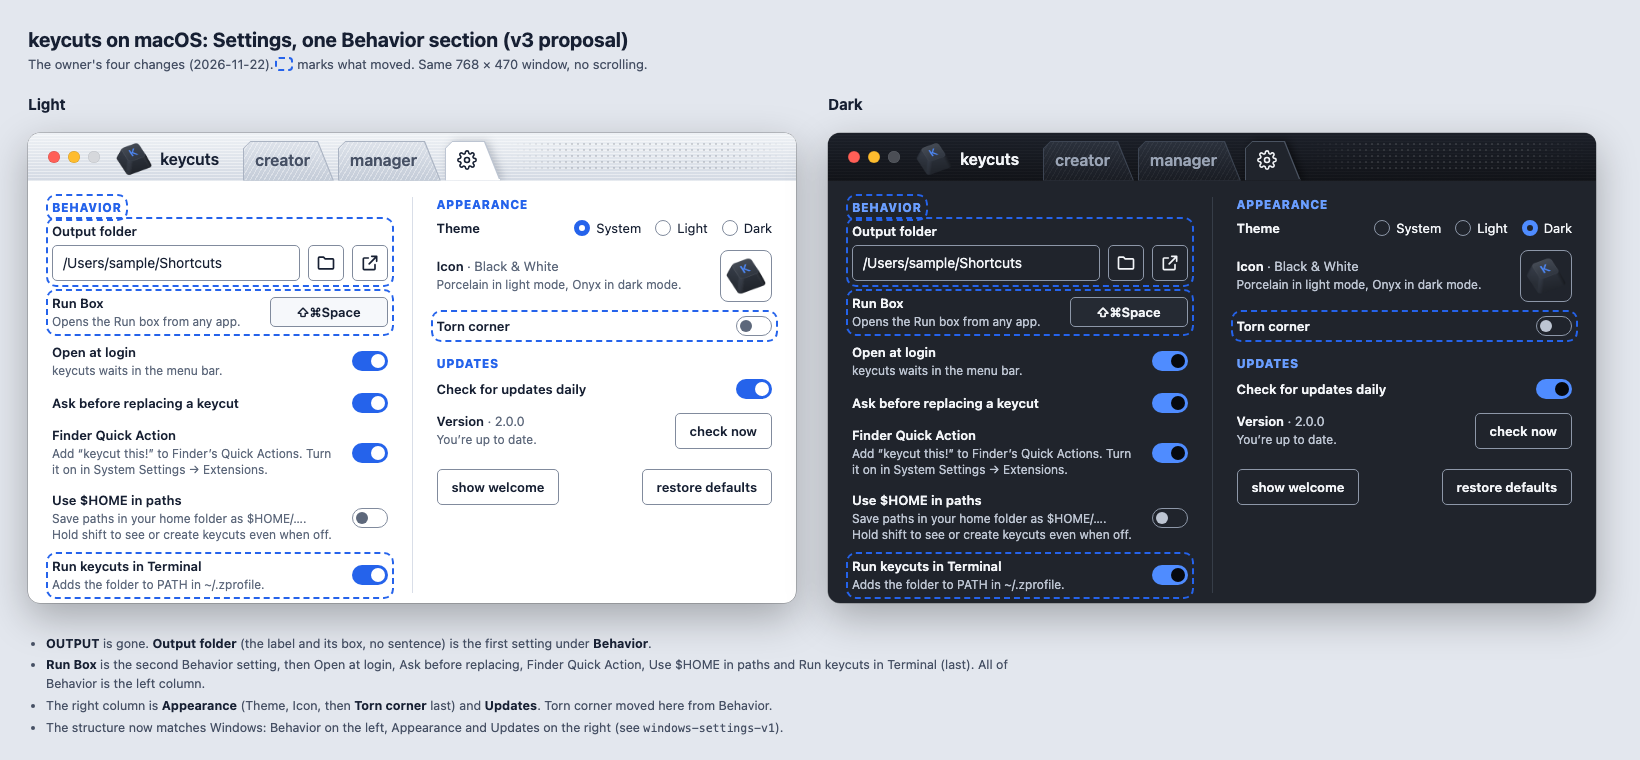
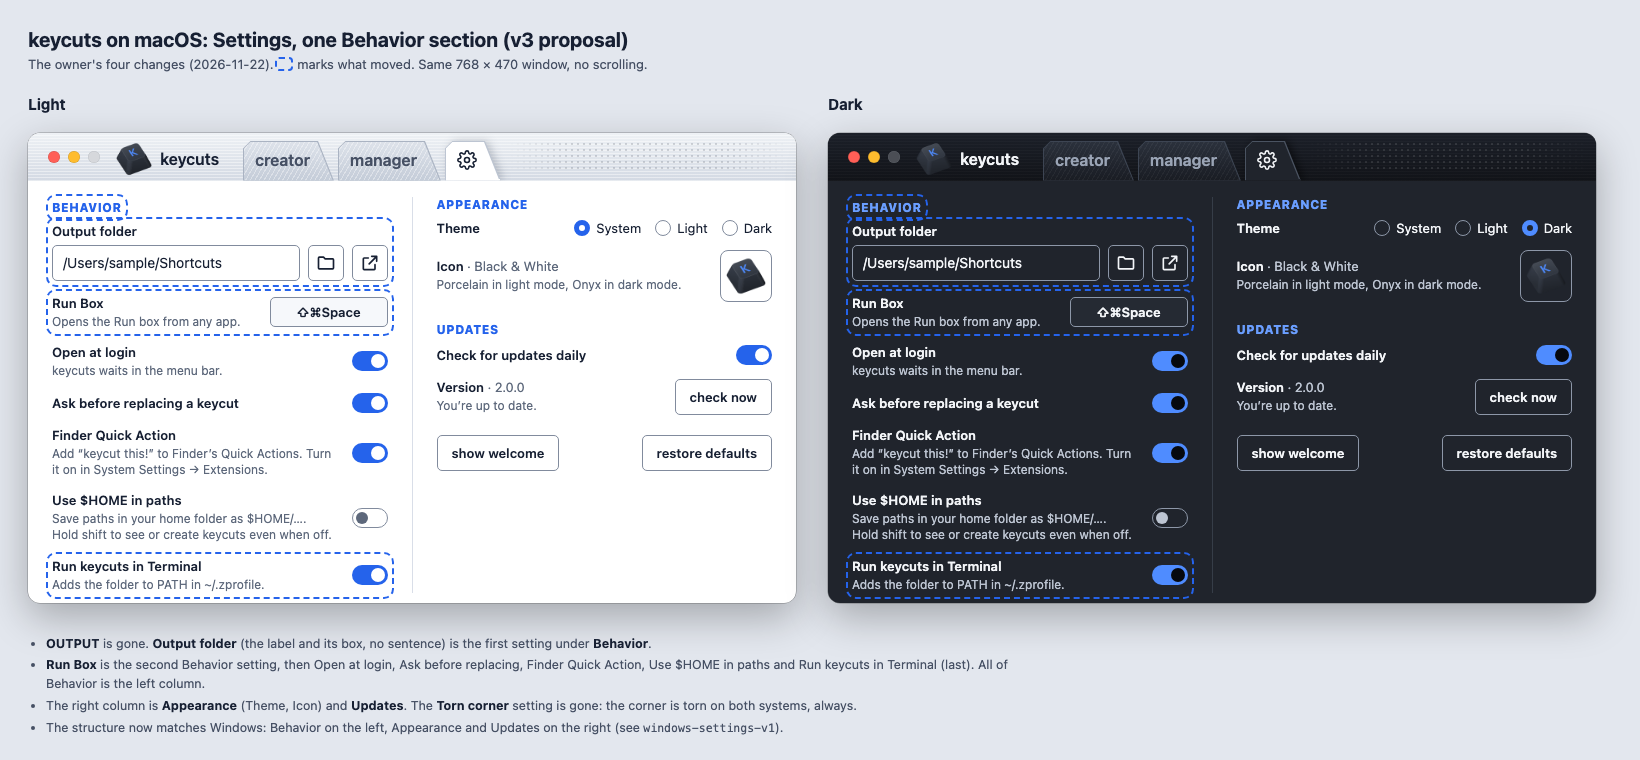
Docs and tools: the torn corner is always on; the torn check is a single fresh-start check
The macOS Settings mockup v3 loses its Torn corner row and the style guide and plan record the decision. check-app.sh torn now only starts the app with a white window behind the corner and requires it to be see-through (no switch to flip any more); it read 0,0,0 without the fix for #308.

diff --git a/docs/mockups/macos-settings-v3.html b/docs/mockups/macos-settings-v3.html
@@ -151,7 +151,6 @@ code{font-family:"SF Mono",Menlo,monospace;font-size:11.5px}
      <div class="sec first">Appearance</div>
      <div class="set"><div class="t">Theme</div><div class="radio"><span><i class="dot on"></i>System</span><span><i class="dot"></i>Light</span><span><i class="dot"></i>Dark</span></div></div>
      <div class="set"><div><div class="t">Icon <span class="v">· Black &amp; White</span></div><div class="n">Porcelain in light mode, Onyx in dark mode.</div></div><div class="iconpick"><img src="../../assets/icons/key-charcoal/key-charcoal-96.png" alt=""></div></div>
-     <div class="set newmark"><div class="t">Torn corner</div><div class="tog off"></div></div>
      <div class="sec">Updates</div>
      <div class="set"><div class="t">Check for updates daily</div><div class="tog"></div></div>
      <div class="set"><div><div class="t">Version <span class="v">· 2.0.0</span></div><div class="n">You’re up to date.</div></div><span class="btn">check now</span></div>
@@ -181,7 +180,6 @@ code{font-family:"SF Mono",Menlo,monospace;font-size:11.5px}
      <div class="sec first">Appearance</div>
      <div class="set"><div class="t">Theme</div><div class="radio"><span><i class="dot"></i>System</span><span><i class="dot"></i>Light</span><span><i class="dot on"></i>Dark</span></div></div>
      <div class="set"><div><div class="t">Icon <span class="v">· Black &amp; White</span></div><div class="n">Porcelain in light mode, Onyx in dark mode.</div></div><div class="iconpick"><img src="../../assets/icons/key-charcoal/key-charcoal-96.png" alt=""></div></div>
-     <div class="set newmark"><div class="t">Torn corner</div><div class="tog off"></div></div>
      <div class="sec">Updates</div>
      <div class="set"><div class="t">Check for updates daily</div><div class="tog"></div></div>
      <div class="set"><div><div class="t">Version <span class="v">· 2.0.0</span></div><div class="n">You’re up to date.</div></div><span class="btn">check now</span></div>
@@ -194,7 +192,7 @@ code{font-family:"SF Mono",Menlo,monospace;font-size:11.5px}
 <div class="row"><div class="col" style="width:1000px"><div class="note"><ul>
  <li><b>OUTPUT</b> is gone. <b>Output folder</b> (the label and its box, no sentence) is the first setting under <b>Behavior</b>.</li>
  <li><b>Run Box</b> is the second Behavior setting, then Open at login, Ask before replacing, Finder Quick Action, Use $HOME in paths and Run keycuts in Terminal (last). All of Behavior is the left column.</li>
- <li>The right column is <b>Appearance</b> (Theme, Icon, then <b>Torn corner</b> last) and <b>Updates</b>. Torn corner moved here from Behavior.</li>
+ <li>The right column is <b>Appearance</b> (Theme, Icon) and <b>Updates</b>. The <b>Torn corner</b> setting is gone: the corner is torn on both systems, always.</li>
  <li>The structure now matches Windows: Behavior on the left, Appearance and Updates on the right (see <code>windows-settings-v1</code>).</li>
 </ul></div></div></div>
 </body></html>

diff --git a/docs/styleguide.md b/docs/styleguide.md
@@ -457,7 +457,8 @@ Answers from the owner. Each settles a discrepancy; the date is when it was made
 | 2026-11-13 | Dialog button order | Cancel, then primary at the far right | **Keep it**: primary last, at the far right. A deliberate difference from Fluent's ContentDialog, which puts the primary button first |
 | 2026-11-22 | The torn corner on macOS | None (the native window) | **Optional, off by default** (Settings → Behavior → Torn corner, issue #292, asked for directly by the owner without a new mockup). On: the window is transparent behind the page, the page is clipped to the same torn shape as Windows (`TornCorner`, the rip is the resize grip), and macOS keeps its own frame, rounded top corners and traffic lights; the page draws no border of its own. Off: the opaque native window, as in `macos-window-v1`. Switches live, no restart. Restore defaults turns it off |
 | 2026-11-22 | Settings on macOS, rearranged | `macos-settings-v1` | **`macos-settings-v2`** (the owner's nine changes). Behavior (left): Open at login first, then Ask before replacing, Finder Quick Action, Use $HOME in paths, Torn corner. The right column starts with the **Run Box** row (was Shortcut under a RUN BOX section label, now without the label), then **Run keycuts in Terminal** (was under Output), then Appearance and Updates. No sentence under the output folder (errors still show there) or under Torn corner. Notes: Open at login "keycuts waits in the menu bar."; Finder Quick Action "Add “keycut this!” to Finder’s Quick Actions. Turn it on in System Settings → Extensions."; Use $HOME "Save paths in your home folder as $HOME/…. Hold shift to see or create keycuts even when off.". macOS only: the Windows page keeps its layout and wording |
-| 2026-11-22 | Settings: one Behavior section, in step on both systems | `macos-settings-v2` | **`macos-settings-v3` and `windows-settings-v1`** (the owner's, to keep the two pages in sync). No OUTPUT heading: Behavior (left) opens with **Output folder** (no sentence under it; an error still shows there). macOS Behavior: Output folder, Run Box, Open at login, Ask before replacing a keycut, Finder Quick Action, Use $HOME in paths, Run keycuts in Terminal. Windows Behavior: Output folder, Ask before replacing a keycut, Right-click context menus, Use environment variables in paths. Right column on both: Appearance (macOS: Theme, Icon, Torn corner; Windows: Theme, Icon, Transparent icon background) and Updates. The notes under the paths setting read "…Hold shift to see or create keycuts even when off." on both. Right-click context menus (Windows) and Finder Quick Action (macOS) are the same setting for each system; Run Box, Open at login, Run keycuts in Terminal and Torn corner are macOS only for now (issues for the Windows ones are open), and Transparent icon background is Windows only for now. The README's Windows Settings pictures need regenerating on Windows |
+| 2026-11-22 | Settings: one Behavior section, in step on both systems | `macos-settings-v2` | **`macos-settings-v3` and `windows-settings-v1`** (the owner's, to keep the two pages in sync). No OUTPUT heading: Behavior (left) opens with **Output folder** (no sentence under it; an error still shows there). macOS Behavior: Output folder, Run Box, Open at login, Ask before replacing a keycut, Finder Quick Action, Use $HOME in paths, Run keycuts in Terminal. Windows Behavior: Output folder, Ask before replacing a keycut, Right-click context menus, Use environment variables in paths. Right column on both: Appearance (macOS: Theme, Icon; Windows: Theme, Icon, Transparent icon background) and Updates. The notes under the paths setting read "…Hold shift to see or create keycuts even when off." on both. Right-click context menus (Windows) and Finder Quick Action (macOS) are the same setting for each system; Run Box, Open at login and Run keycuts in Terminal are macOS only for now (issues for the Windows ones are open), and Transparent icon background is Windows only for now. The README's Windows Settings pictures need regenerating on Windows |
+| 2026-11-22 | The torn corner on macOS, always | Optional, off by default (the row above) | **Always on, no setting** (the owner's decision, in the PR for #308). The Settings row is gone from macOS; the corner is torn on both systems and only high contrast keeps the plain rectangle. The window is transparent behind the page and set again once it is open, because a transparency hint set before the native window exists is not honored (the corner came up black). macOS keeps its own frame, rounded top corners and traffic lights. Replaces the optional-corner row above and the Torn corner row in `macos-settings-v3` (which now has none) |
 
 Defaults taken from best practice, listed in #211 and not overturned: the 4px grid, one outer padding (24, with 16 at the top since the owner's change), one dialog footer (`24,12`), radii from the tokens only, readable text at 4.5:1, body text at 13 and inputs at 14, no plain Bold, one set of shared text styles, headings marked for assistive tech, colors only from theme brushes, and the writing rules above.
 

diff --git a/docs/macos-port.md b/docs/macos-port.md
@@ -167,7 +167,7 @@ Milestone: from a dev build on the Mac, `keycuts create -t https://mail.google.c
 
 Mockups first: macOS window chrome (traffic lights plus the folder tabs), ⌘ shortcuts, menu bar menu, Settings additions.
 
-1. **Window**: traffic lights in a client area extended under the title bar, folder tabs beside them, no zoom or full screen (the "never maximized" rule), the same two sizes. **M** *Done:* one `CreateShell` for both platforms (the macOS app had a stand-in with no keycuts folder). On macOS the window keeps the native frame (`WindowDecorations.Full`, extended), opaque, with no drawn border or torn corner (the mockup); `CanMaximize = false` turns zoom off. Avalonia leaves the traffic lights at a plain title bar's place, so `MacTrafficLights` makes AppKit's title bar container 48 high and centers the three buttons 20 from the edge, again on each resize and focus change. The bar's empty part moves the window (`BeginMoveDrag`). Checked by capturing the real window.
+1. **Window**: traffic lights in a client area extended under the title bar, folder tabs beside them, no zoom or full screen (the "never maximized" rule), the same two sizes. **M** *Done:* one `CreateShell` for both platforms (the macOS app had a stand-in with no keycuts folder). On macOS the window keeps the native frame (`WindowDecorations.Full`, extended), with no drawn border; the bottom-right corner is torn as on Windows, always, and the window is transparent behind the page (first opaque with no torn corner, as in the mockup; the owner then asked for the corner on every start, #292 and #308); `CanMaximize = false` turns zoom off. Avalonia leaves the traffic lights at a plain title bar's place, so `MacTrafficLights` makes AppKit's title bar container 48 high and centers the three buttons 20 from the edge, again on each resize and focus change. The bar's empty part moves the window (`BeginMoveDrag`). Checked by capturing the real window.
 2. **Keys**: ⌘ where Windows uses Ctrl (⌘1/2/3, ⌘C/E/F/Z, ⌘, for Settings, ⌘Q), F2 kept, Return for rename as in Finder decided in the mockup. The app menu holds About, Settings, Quit. **M** *Done:* `PlatformKeys` (⌘ on macOS) drives the tab keys, the Manager's keys, the Creator's paste and the row menu's gestures; on macOS ⌘, is Settings, ⌘W closes, ⌘⌫ deletes (a plain ⌫ doesn't), ⌘↑/⌘↓ jump; Return runs (the mockup's choice). `PlatformText`: "Edit in text editor", "Show in Finder", ⌘ in tooltips. `MacMenus`: the app menu (About, Settings… ⌘,), View, Window, Help; no Edit menu (its key equivalents would take ⌘C from the Manager, and text boxes handle the keys). Left for the owner: open the menus and check their items.
 3. **Drag from Finder and browsers, file dialogs.** **M** *Done in code:* drops and the clipboard already go through Avalonia's data transfer (files, then text; the Windows-only formats are simply absent), and the pickers are `StorageProvider`'s native panels. A Finder folder arrives with a trailing `/`, which `TargetData.TrimFolderSlash` takes off, so a dropped folder or app is the same target as a typed one. Left for the owner: drop a file, a folder, an app, an alias and a Safari link on the Creator, and use Browse.
 4. **Settings on macOS**: the right-click toggle drives the Quick Action, the PATH status and button, theme following the system (including Increase Contrast), the icon choice (Dock icon while running; the bundle's own icon stays fixed, since changing it would break the signature). **M** *Done:* the mockup's rows: Run keycuts in Terminal (`SettingsViewModel.TerminalPath`, the profile block; locked on when PATH has the folder some other way, instructions for fish and nushell), Finder Quick Action (stored until Phase 7 installs it), Use $HOME in paths, no transparent background, rows 12 apart. Increase contrast picks the high-contrast palette with fixed colors (`SystemColor.ReadMac`). The Dock icon is the window icon, which the picker already sets. The Run box section comes with 6.2 and 6.5. Left for the owner: Increase contrast on, and the Dock icon following a pick.
